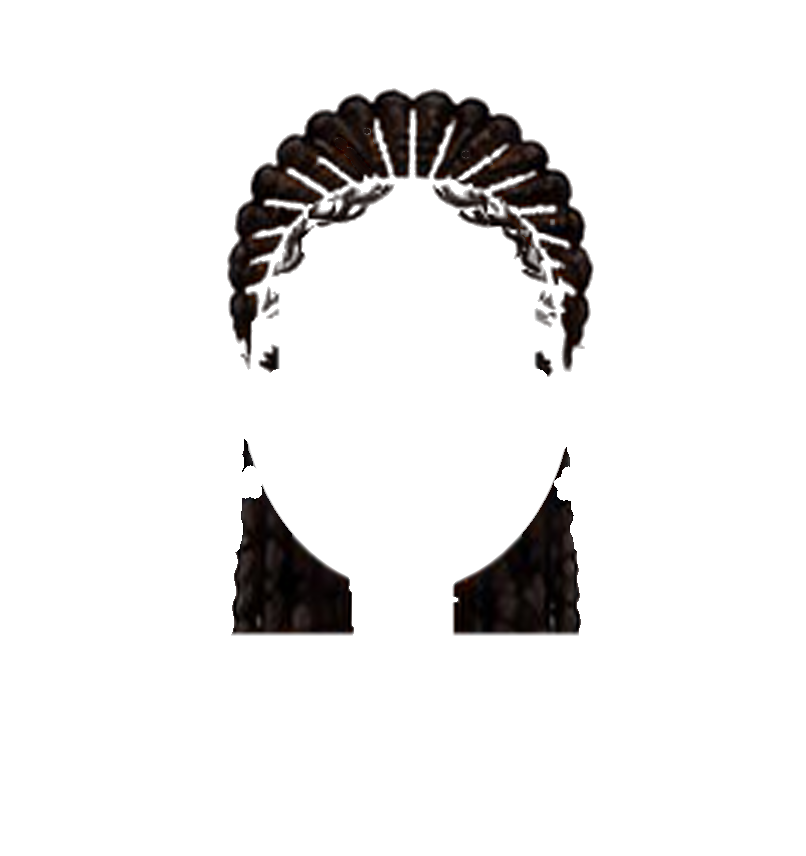
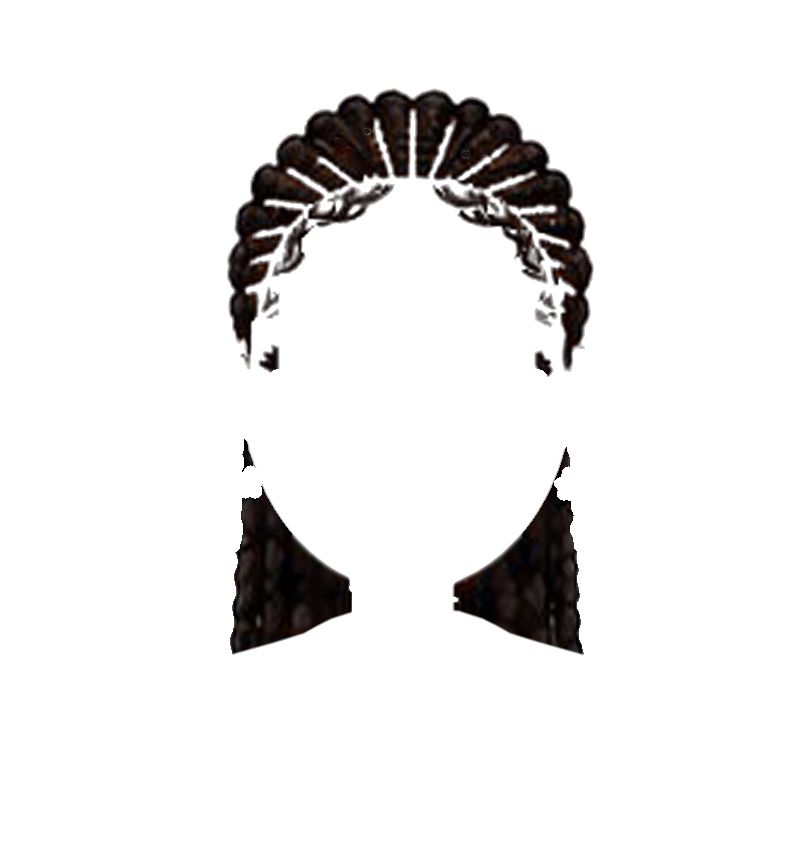
Cornrows : devant, les tresses s'arrêtent exactement sur la ligne des épaules (plus de bandes horizontales près du cou)
Claude-Session: https://claude.ai/code/session_01RffJDTtPaeahFdiXkdY2ya

Changed region(s): [[0.5583, 0.6986, 0.7444, 0.7593], [0.2792, 0.6986, 0.4342, 0.7593]]

diff --git a/tools/coiffure-depuis-planche.py b/tools/coiffure-depuis-planche.py
@@ -191,7 +191,8 @@ fr[bij, 3] = 0
 if DROIT:   # devant : rien sur le visage du jeu sous les oreilles (les tresses passent derrière la mâchoire, sans liseré)
     GV_ = [228, 240, 250, 260, 270, 280, 290, 300, 310, 315, 400]; GW_ = [92, 88, 84.5, 80, 75, 68.6, 60.4, 49, 35, 27, 27]
     gwv = np.interp(VV, GV_, GW_); fr[:, :, 3] *= np.where(VV > 232, np.clip((np.abs(UU - 200) - gwv + 1) / 2, 0, 1), 1)
-    fr[:, :, 3] *= np.clip((352 - VV) / 3, 0, 1)   # sur les épaules : les tresses passent derrière le dos (image de derrière)
+    sv = np.interp(np.abs(UU - 200), [0, 30, 44, 52, 60, 76, 92, 108, 116, 124, 132], [336, 338, 342.5, 346.5, 351, 356, 360.5, 365, 368.7, 375, 382])   # haut des épaules du jeu
+    fr[:, :, 3] *= np.clip((sv - VV) / 1.5, 0, 1)   # sur les épaules : les tresses passent derrière le dos (image de derrière), en suivant la ligne des épaules
 Image.fromarray(fr.clip(0, 255).astype(np.uint8)).save(P(hid))
 # derrière le corps : la masse est élargie de quelques pixels vers le visage et le cou (aucun liseré de fond entre les deux)
 dos = out.copy(); m_ = (dos[:, :, 3] > 128).astype(np.uint8)
